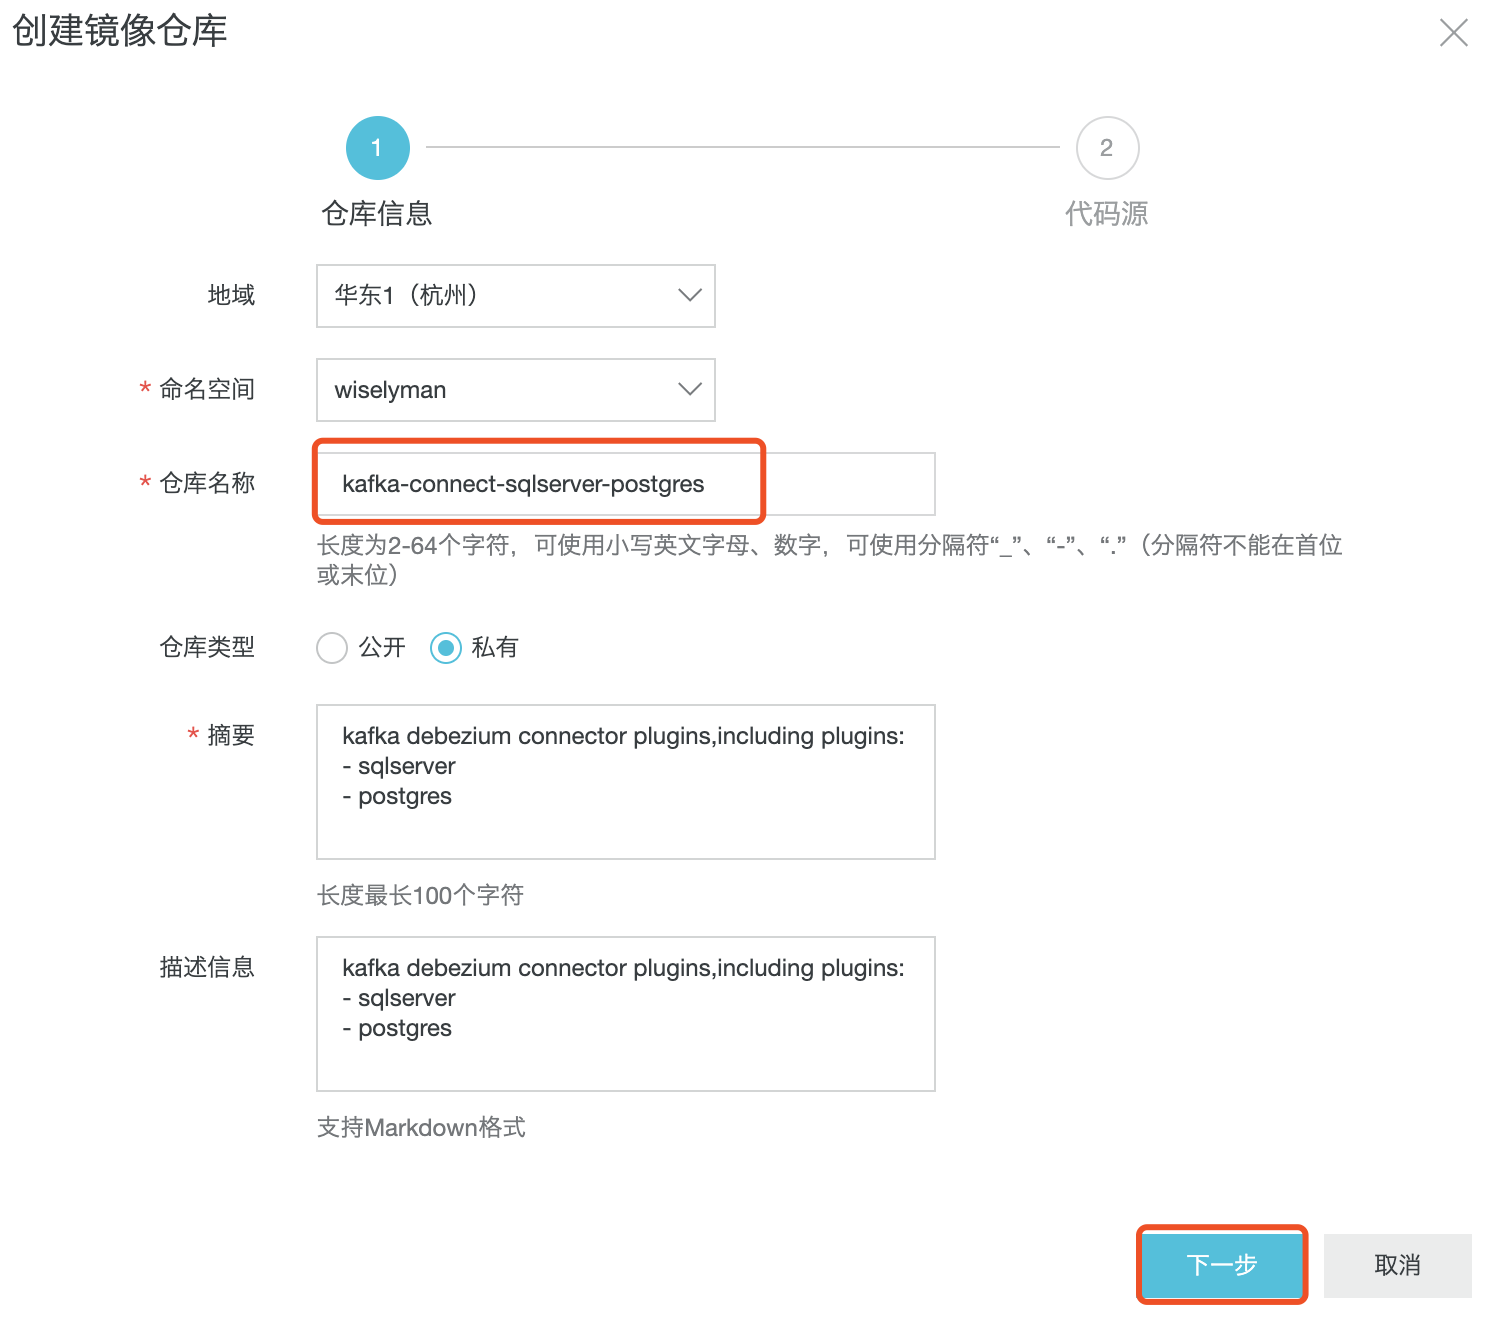
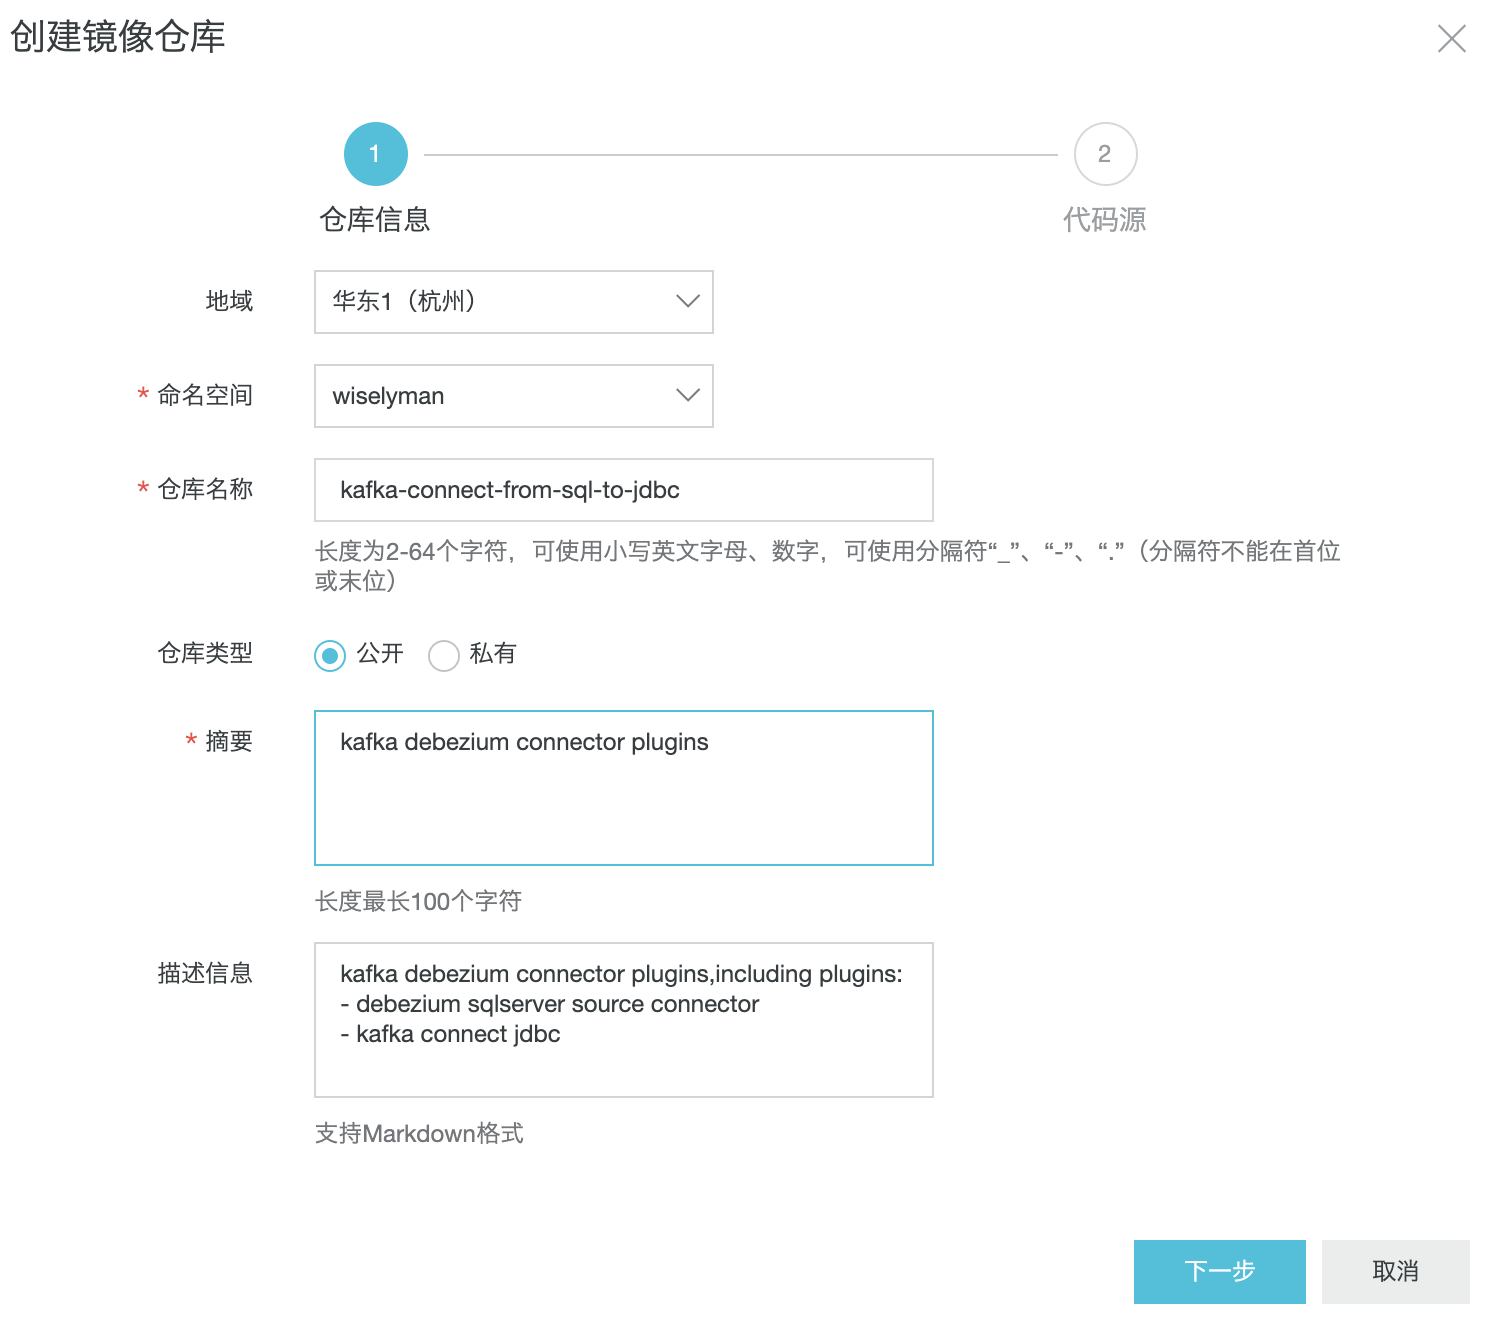
x

diff --git a/README.md b/README.md
@@ -93,13 +93,17 @@ kubectl exec -n kafka my-cluster-kafka-0   -- bin/kafka-topics.sh --list --zooke
 
 ### 5.1 SQL Server To PosgreSQL
 
-- 下载SQL Server Connector plugin：http://central.maven.org/maven2/io/debezium/debezium-connector-sqlserver/
+- 本节将外部的SQL Server中的数据通过Kafka Connect同步至K8s集群里的PostgreSQL中。
 
-- 下载PostgeSQL plugin：http://central.maven.org/maven2/io/debezium/debezium-connector-postgres/
+- 输入（source）：下载SQL Server Connector plugin：http://central.maven.org/maven2/io/debezium/debezium-connector-sqlserver/
+
+- 输出（sink）：下载Kafka Connect JDBC：https://www.confluent.io/hub/confluentinc/kafka-connect-jdbc
 
 - 新建Dockerfile文件。
 
-- 解压两个压缩包到Dockerfile相同目录下的plugins目录：`debezium-connector-sqlserver-0.10.0.Final-plugin.zip`、`debezium-connector-postgres-0.10.0.Final-plugin.zip`
+- 将`debezium-connector-sqlserver-0.10.0.Final-plugin.zip`解压放置到Dockerfile相同目录下的`plugins`目录。
+
+- 在`plugins`目录下新建目录`kafka-connect-jdbc`,解压`confluentinc-kafka-connect-jdbc-5.3.1.zip`，将`lib`下的`kafka-connect-jdbc-5.3.1.jar`和`postgresql-9.4.1212.jar`放置在`kafka-connect-jdbc`
 
 - 编写Dockerfile
 
@@ -125,4 +129,79 @@ kubectl exec -n kafka my-cluster-kafka-0   -- bin/kafka-topics.sh --list --zooke
 
 - 确认后，“构建规则设置”->“立即构建”，“构建日志”显示“构建状态”为“成功”即可。
 
+- 编写Kafka Connect集群部署文件`kafka-connect-sql-postgres.yml`：
+
+  ```yaml
+  apiVersion: kafka.strimzi.io/v1beta1
+  kind: KafkaConnect
+  metadata:
+    name: my-connect-cluster
+  spec:
+    version: 2.3.0
+    replicas: 1
+    bootstrapServers: 'my-cluster-kafka-bootstrap:9093'
+    image: registry.cn-hangzhou.aliyuncs.com/wiselyman/kafka-connect-from-sql-to-jdbc:0.1
+    tls:
+      trustedCertificates:
+        - secretName: my-cluster-cluster-ca-cert
+          certificate: ca.crt
+  ```
+
+- 执行安装
+
+  ```shell
+  kubectl apply -f kafka-connect-sql-postgres.yml -n kafka
+  ```
+
+- 查询已安装的插件
+
+  ```shell
+  kubectl exec -i -n kafka my-cluster-kafka-0 -- curl -X GET http://my-connect-cluster-connect-api:8083/connector-plugins
+  ```
+
+  结果如：
+
+  ```
+  [{
+  	"class": "io.confluent.connect.jdbc.JdbcSinkConnector",
+  	"type": "sink",
+  	"version": "5.3.1"
+  }, {
+  	"class": "io.confluent.connect.jdbc.JdbcSourceConnector",
+  	"type": "source",
+  	"version": "5.3.1"
+  }, {
+  	"class": "io.debezium.connector.sqlserver.SqlServerConnector",
+  	"type": "source",
+  	"version": "0.10.0.Final"
+  }, {
+  	"class": "org.apache.kafka.connect.file.FileStreamSinkConnector",
+  	"type": "sink",
+  	"version": "2.3.0"
+  }, {
+  	"class": "org.apache.kafka.connect.file.FileStreamSourceConnector",
+  	"type": "source",
+  	"version": "2.3.0"
+  }]
+  ```
+
+- 使用helm安装PostgreSQL
+
+  定制的`value.yaml`如下：
+
+  ```yaml
+  global.storageClass: standard
+  postgresqlUsername: wisely
+  postgresqlPassword: zzzzzz
+  postgresqlDatabase: center
+  service.type: NodePort
+  ```
+
+  安装:
+
+  ```shell
+  helm install --name my-pg --set global.storageClass=standard,postgresUser=wisely,postgresPassword=zzzzzz,postgresDatabase=center,service.type=NodePort,service.nodePort=5432 stable/postgresql
+  ```
+
   
+
